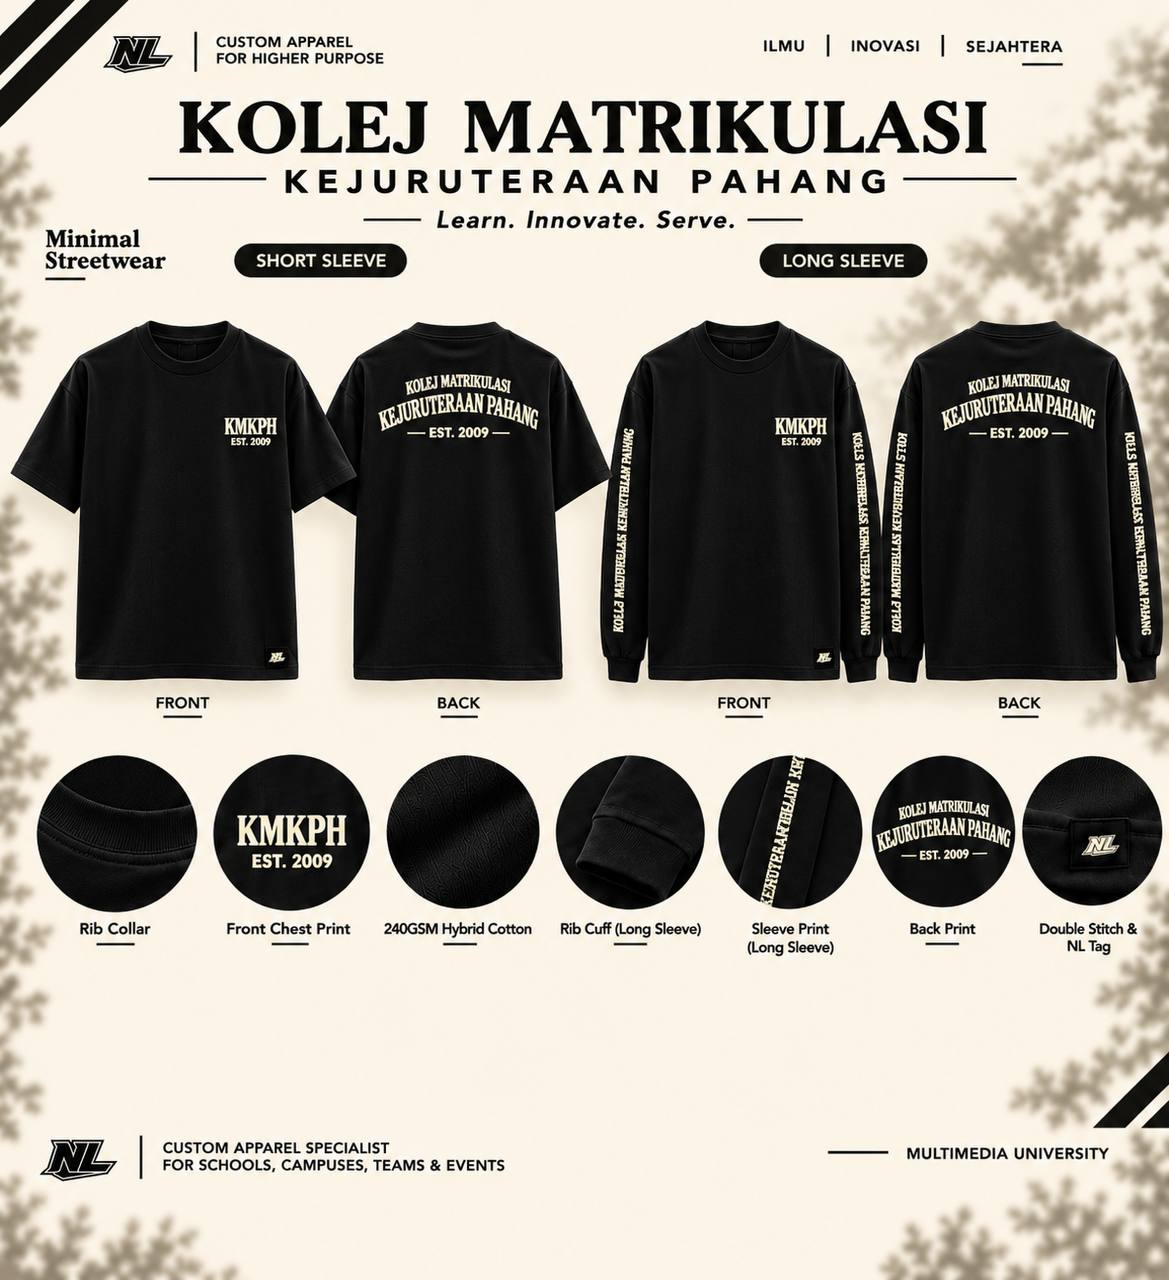
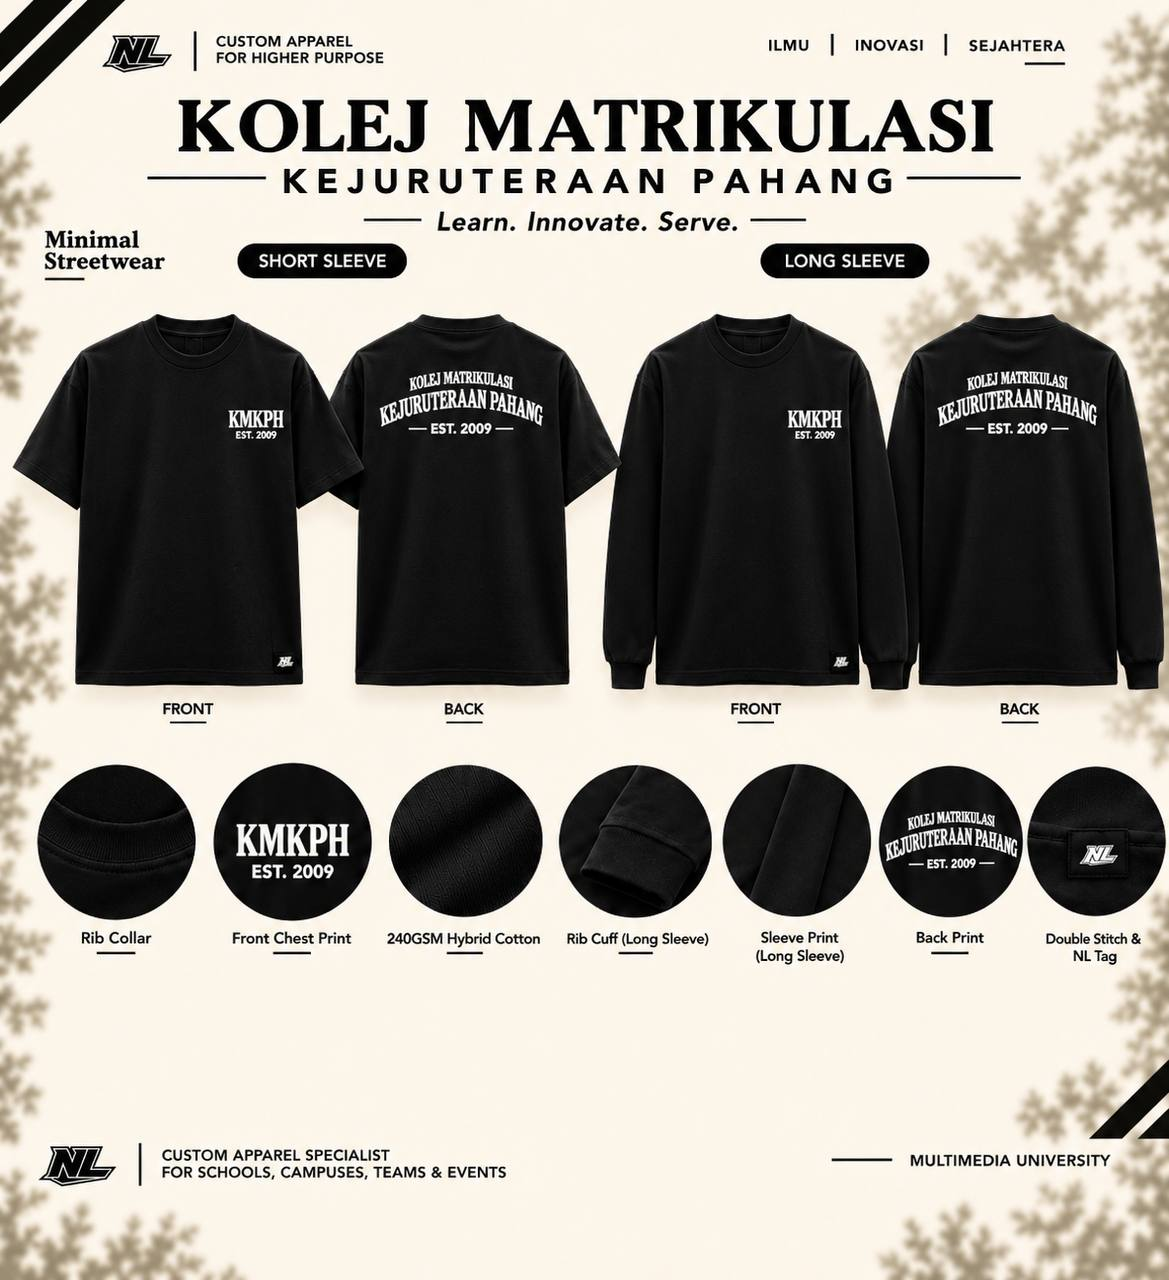
Use the latest KMKPH designs in the survey
Design B is now Hitam + Putih and C is Cream + Navy; labels and colour
swatches updated on the page and in the Results tab.

diff --git a/kmkph-survey/index.html b/kmkph-survey/index.html
@@ -340,8 +340,8 @@ const CONFIG = {
 // Keep in sync with OPTIONS in Survey.gs (the server rejects anything else)
 const DESIGNS = [
   { id: 'A', label: 'Hitam + Ungu',  img: 'assets/design-a.jpg', sw: ['#111', '#7c3fc4'] },
-  { id: 'B', label: 'Hitam + Cream', img: 'assets/design-b.jpg', sw: ['#111', '#efe3c8'] },
-  { id: 'C', label: 'Cream + Hitam', img: 'assets/design-c.jpg', sw: ['#f3ecdf', '#111'] },
+  { id: 'B', label: 'Hitam + Putih', img: 'assets/design-b.jpg', sw: ['#111', '#f7f7f5'] },
+  { id: 'C', label: 'Cream + Navy',  img: 'assets/design-c.jpg', sw: ['#f3ecdf', '#1f2a55'] },
   { id: 'D', label: 'Cream + Ungu',  img: 'assets/design-d.jpg', sw: ['#f3ecdf', '#6a2fa8'] },
   { id: 'E', label: 'Hitam + Emas',  img: 'assets/design-e.jpg', sw: ['#111', '#e8b730'] },
 ];

diff --git a/kmkph-survey/README.md b/kmkph-survey/README.md
@@ -2,7 +2,7 @@
 
 ```
 index.html            Survey page (4 steps, mobile-first)
-assets/design-a..e    The 5 design posters (A Hitam+Ungu, B Hitam+Cream, C Cream+Hitam, D Cream+Ungu, E Hitam+Emas)
+assets/design-a..e    The 5 design posters (A Hitam+Ungu, B Hitam+Putih, C Cream+Navy, D Cream+Ungu, E Hitam+Emas)
 apps-script/Survey.gs Backend: saves answers to Google Sheets, live Results tab
 ```
 
